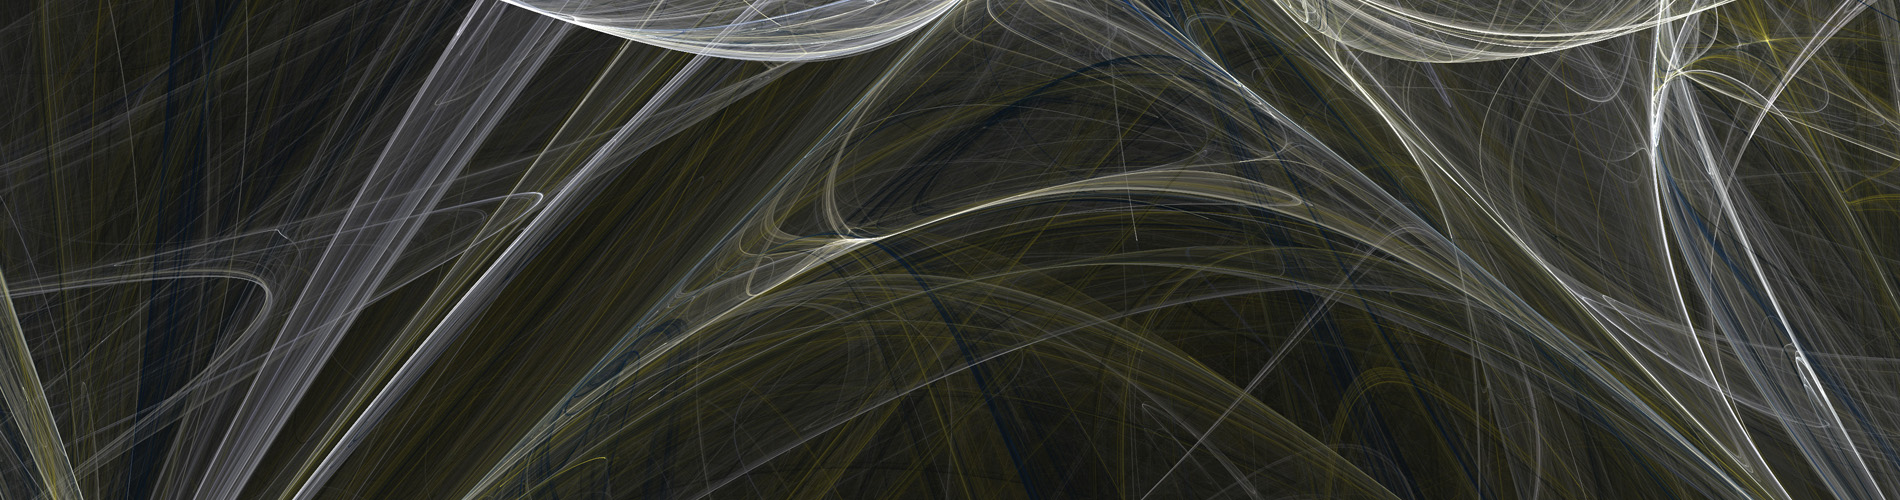
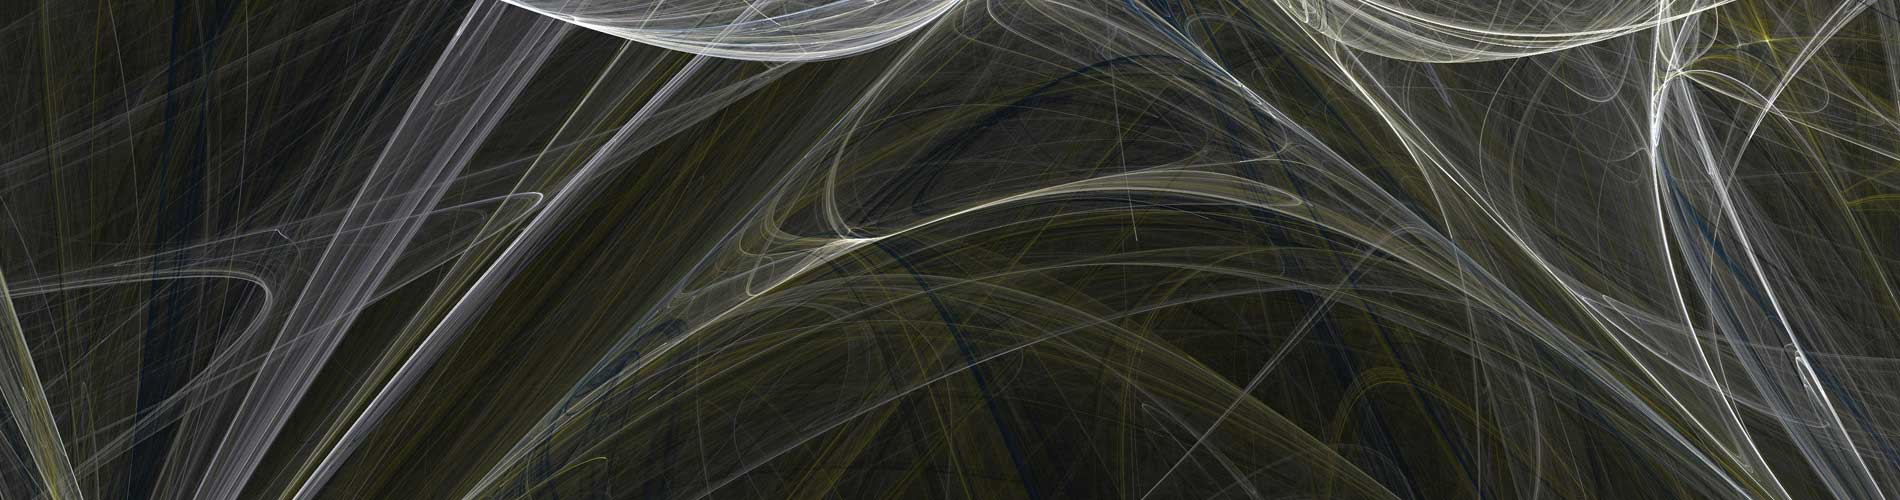
Changed the images to be smaller filesize

diff --git a/README.md b/README.md
@@ -1,0 +1,42 @@
+Vagrant file for a GitHub Pages-compatible Jekyll environment
+====================
+
+Simple Vagrant file to build a GitHub Pages-compatible Jekyll environment. Uses the "official" github-pages gem. Use this environment to build and test your GitHub Pages-based Jekyll sites without polluting your host box.
+
+How to use
+--------------------
+
+First, make sure you've installed [Vagrant](http://docs.vagrantup.com/v2/getting-started/index.html) and [VirtualBox](https://www.virtualbox.org/).
+
+Next, clone this repo:
+
+```
+git clone git@github.com:rjsilk/vagrant-github-pages.git
+```
+
+Now, `cd` into that directory and start up the Vagrant vm:
+
+```
+cd vagrant-github-pages
+vagrant up
+```
+
+Finally, you can ssh into the vm and do all your Jekyll-related work in there:
+
+```
+vagrant ssh
+```
+
+Port forwarding
+---------------------
+The Vagrant vm is configured to forward port 8124 by default. So you can start a Jekyll server like so:
+
+```
+jekyll server --watch -P 8124
+```
+
+And then navigate to localhost:8124 on your host box.
+
+Note on SSH-forwarding
+---------------------
+The Vagrantfile enables ssh-forwarding so that you can use your host ssh keys to authenticate with github. Make sure to add you keys to the agent with ```ssh-add``` before running ```vagrant ssh``` if your keys aren't automatically added to the agent.
